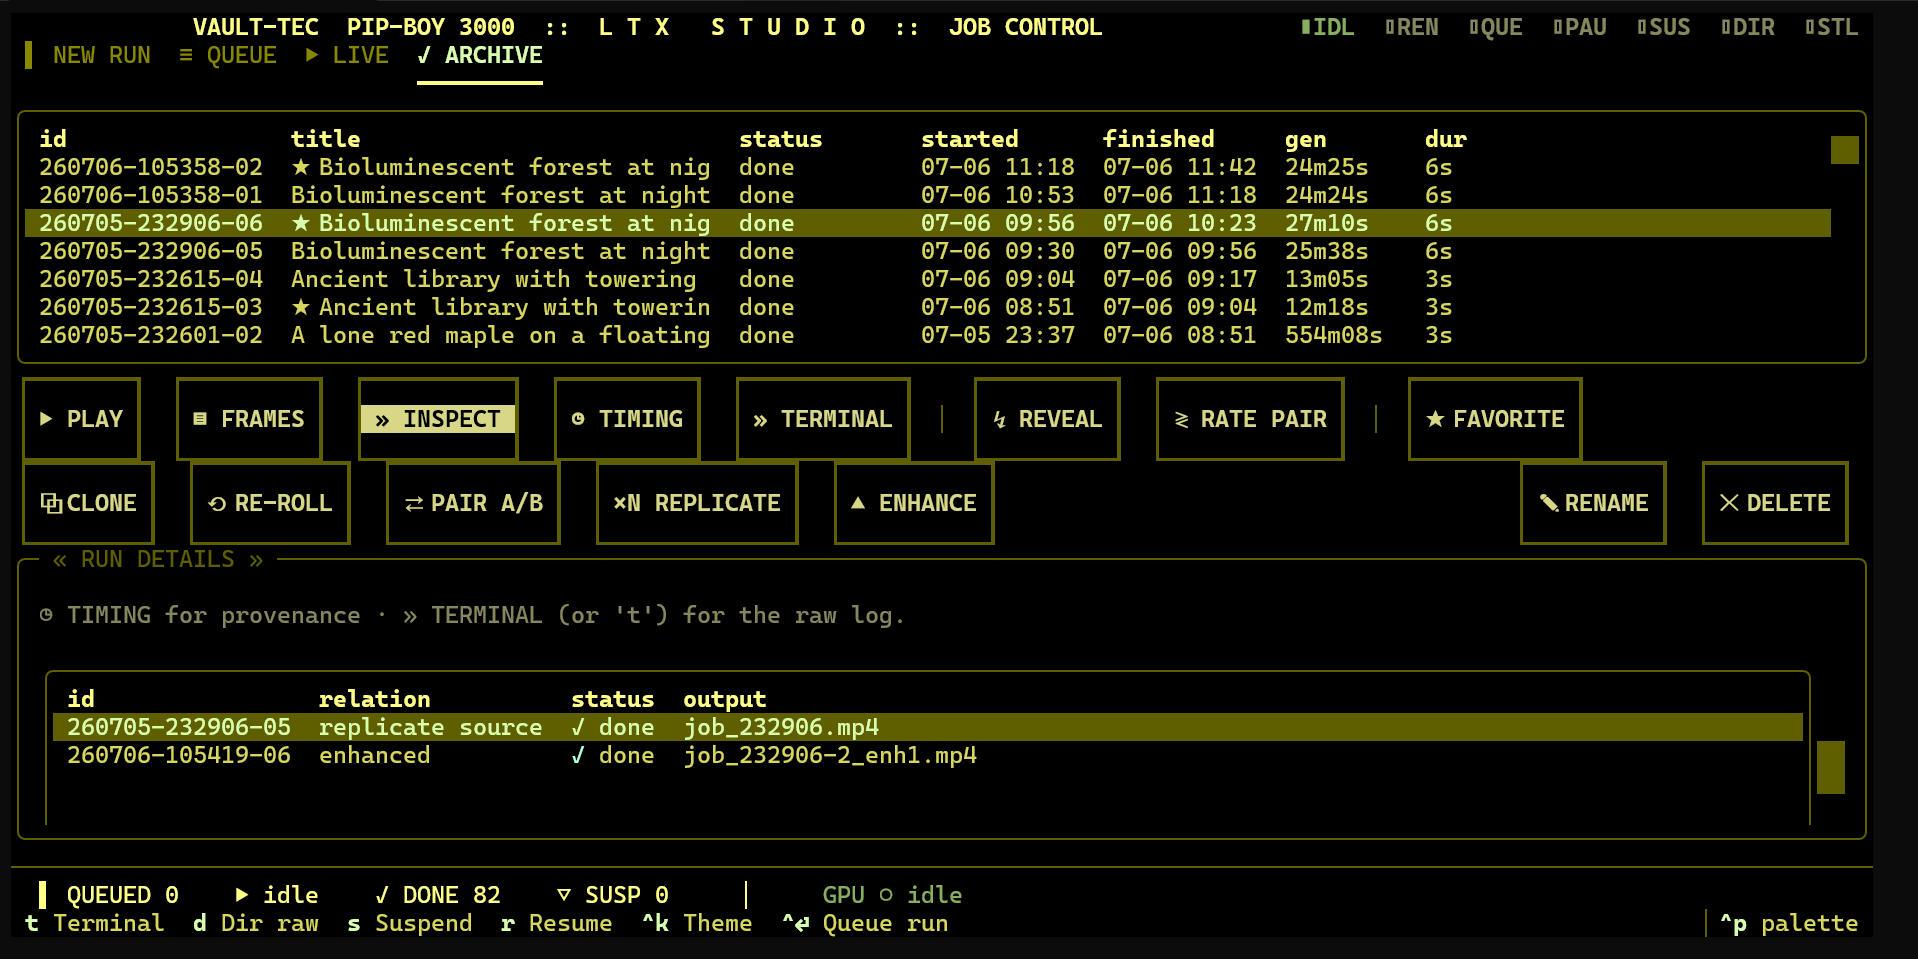
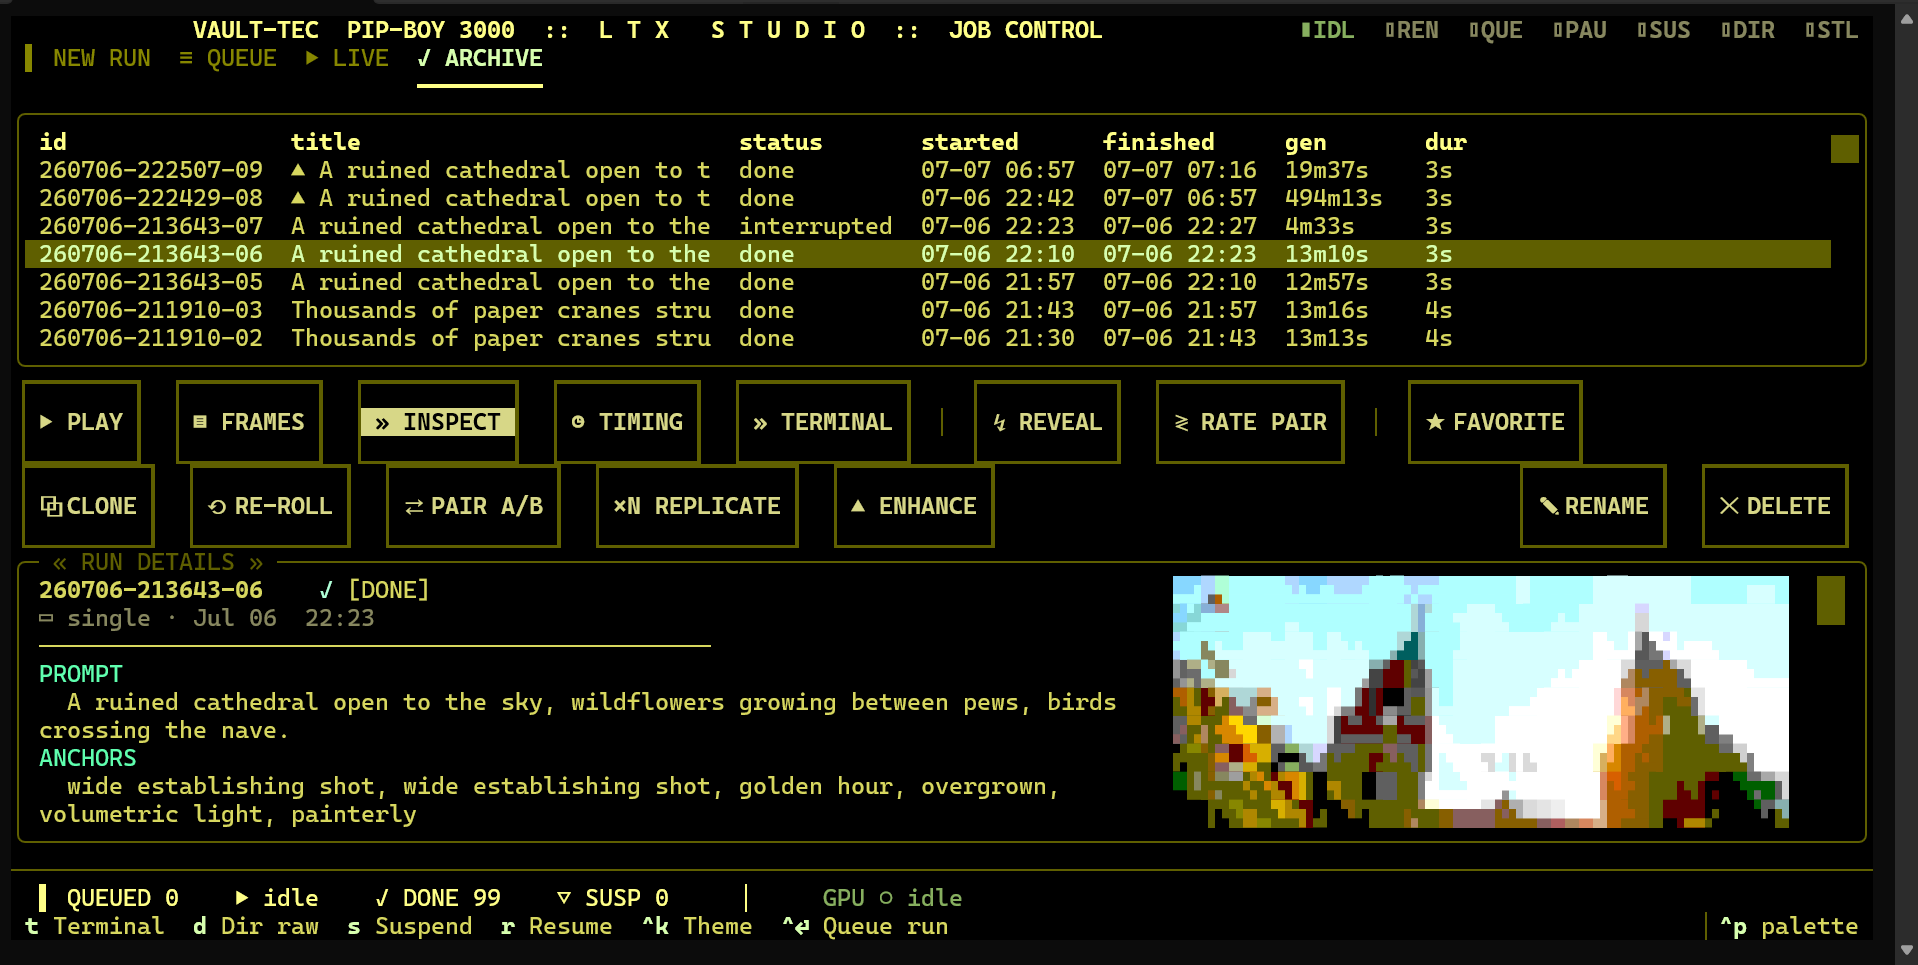
Archive inspect: opening-frame preview (T-thumb) + updated screenshots and tour

diff --git a/studio.py b/studio.py
@@ -1108,7 +1108,9 @@ class Studio(App):
     #livelog { display: none; height: 8; }
     #livebar { height: 1; background: $panel; color: $accent; content-align: left middle; padding: 0 1; }
     #inspectpanel { border: round $border; background: $surface; height: 1fr; padding: 0 1; }
-    #inspectinfo { color: $foreground; }
+    #insprow { height: auto; }
+    #inspectinfo { color: $foreground; width: 1fr; }
+    #inspthumb { width: auto; margin-left: 2; display: none; }
     #qinspectpanel { border: round $border; background: $surface; height: 1fr; padding: 0 1; }
     #qinspect { color: $foreground; }
     #inspectlog { display: none; }
@@ -1320,7 +1322,9 @@ class Studio(App):
                     yield Button("✎ RENAME", id="renamebtn")
                     yield Button("✕ DELETE", id="deletebtn")
                 with VerticalScroll(id="inspectpanel"):
-                    yield Static("[dim]Select a run above and press INSPECT.[/dim]", id="inspectinfo")
+                    with Horizontal(id="insprow"):
+                        yield Static("[dim]Select a run above and press INSPECT.[/dim]", id="inspectinfo")
+                        yield Static("", id="inspthumb")   # T-thumb: opening-frame preview
                     yield DataTable(id="reltable", cursor_type="row")
                     yield Button("▶ PLAY SELECTED CHILD RUN", id="playchildbtn")
                 yield RichLog(id="inspectlog", highlight=True, markup=False, wrap=True)
@@ -3737,14 +3741,23 @@ class Studio(App):
         read-only view (mirrors how ARCHIVE refreshes its inspect on selection). Only the qtable
         drives this; everything else is a no-op. Fully guarded — must never break the app."""
         try:
-            if getattr(event, "data_table", None) is None or event.data_table.id != "qtable":
-                return
+            tid = event.data_table.id if getattr(event, "data_table", None) is not None else None
         except Exception:
             return
-        try:
-            self._render_qinspect()
-        except Exception:
-            pass
+        if tid == "qtable":
+            try:
+                self._render_qinspect()
+            except Exception:
+                pass
+        elif tid == "reltable":
+            # T-thumb: the preview follows the highlighted related run, so replicates can be
+            # compared frame-to-frame just by moving the cursor. Falls back to the inspected run.
+            try:
+                jid = self._selected("#reltable")
+                job = self.mgr.jobs.get(jid) if jid else None
+                self._render_insp_thumb(job or self.mgr.jobs.get(self._insp_jid))
+            except Exception:
+                pass
 
     def _render_qinspect(self):
         """T24: inline read-only details for the selected QUEUE row. Reuses the EXISTING
@@ -3783,6 +3796,7 @@ class Studio(App):
         fn = self._fmt_provenance if self._insp_view == "timing" else self._fmt_inspect
         self.query_one("#inspectinfo", Static).update(fn(job))
         self._render_related_table(job)
+        self._render_insp_thumb(job)
 
     def _render_related_table(self, job):
         """Populate #reltable with runs spawned from (or that spawned) `job` -- pairs, replicates,
@@ -3794,6 +3808,49 @@ class Studio(App):
             t.add_row(k.id, label, f"{_status_glyph(k.status)} {k.status}", os.path.basename(k.out or "?"), key=k.id)
         t.display = bool(rel)
         self.query_one("#playchildbtn", Button).display = bool(rel)
+
+    def _thumb_art(self, job, cols=44):
+        """T-thumb: opening-frame art for a run's output, cached as runs/thumbs/<id>.png so
+        repeat inspects are instant. Extraction uses the bundled imageio-ffmpeg binary.
+        Returns a renderable, or None (no output yet / extraction failed) — never raises."""
+        try:
+            out = getattr(job, "out", None)
+            if not out:
+                return None
+            src = out if os.path.isabs(out) else os.path.join(REPO, out)
+            if not os.path.exists(src):
+                return None
+            tdir = os.path.join(REPO, "runs", "thumbs")
+            os.makedirs(tdir, exist_ok=True)
+            thumb = os.path.join(tdir, f"{job.id}.png")
+            if not os.path.exists(thumb) or os.path.getmtime(thumb) < os.path.getmtime(src):
+                import imageio_ffmpeg
+                ff = imageio_ffmpeg.get_ffmpeg_exe()
+                r = subprocess.run(
+                    [ff, "-y", "-i", src, "-frames:v", "1", "-vf", "scale=480:-2", thumb],
+                    stdout=subprocess.DEVNULL, stderr=subprocess.DEVNULL, timeout=20)
+                if r.returncode != 0 or not os.path.exists(thumb):
+                    return None
+            return render_preview(thumb, cols=cols)
+        except Exception:
+            return None
+
+    def _render_insp_thumb(self, job):
+        """T-thumb: show the opening frame beside RUN DETAILS so near-identical runs
+        (especially replicates) can be told apart without opening the media player.
+        Follows the highlighted #reltable row when one is selected."""
+        try:
+            pv = self.query_one("#inspthumb", Static)
+        except Exception:
+            return
+        art = self._thumb_art(job) if job is not None else None
+        if art is None:
+            pv.display = False
+            pv.update("")
+        else:
+            pv.styles.width = 46
+            pv.display = True
+            pv.update(art)
 
     def _blind_lookup(self, pair_id):
         """Look up a blind A/B pair's TRUE mapping in runs/pair_blinds.jsonl (the only in-the-clear copy).

diff --git a/README.md b/README.md
@@ -20,9 +20,13 @@ It was built under a hard constraint — an RTX 5070 Laptop (Blackwell, `sm_120`
 
 ![LIVE render view with last-frame preview](media/tui-live-render.png)
 
-**The archive** — every run is a first-class record: status, per-run timing, favorites, and a lineage panel (here: a replicate source and its enhanced output) so provenance survives re-rolls, replicates, and enhancement passes. REVEAL / RATE PAIR / PAIR A/B are the blind-comparison harness:
+**The archive** — every run is a first-class record: status, per-run timing, favorites, and the blind-comparison harness (REVEAL / RATE PAIR / PAIR A/B). INSPECT shows a run's full config beside an opening-frame preview, so near-identical runs — especially replicates — can be told apart without opening a player:
 
-![ARCHIVE view with run lineage panel and blind A/B controls](media/tui-archive.png)
+![ARCHIVE inspect view: run config and prompt beside an opening-frame preview](media/tui-archive.png)
+
+Scrolling the same panel reaches the lineage table — here a replicate source, a replicate sibling, and an enhanced child — so provenance survives re-rolls, replicates, and enhancement passes:
+
+![Run lineage table: replicate source, replicate sibling, enhanced child](media/tui-lineage.png)
 
 **Sample output** — all generated with the Wan backend, locally on the 8 GB laptop GPU:
 
@@ -111,7 +115,7 @@ Because phase boundaries are explicit, the studio accumulates real per-phase tim
 - **Style presets** — named bundles of anchor words (`Cinematic`, `Golden Hour`, `Noir`, …) that append into the prompt, stackable and user-extensible via JSON.
 - **Multi-shot director** — chains shots into longer clips with latent anchoring (AdaIN + palette lock) to fight drift, plus context windows so long clips don't OOM.
 - **Three backends** — LTX-2B (pinned 0.9.5, optional 0.9.8-distilled transformer) for fast drafts, Wan-VACE-1.3B for fidelity, and a 4-step Wan-turbo DMD path — with each path's step/CFG clamps surfaced rather than hidden.
-- **Archive with lineage** — every run is a first-class record: favorite, re-roll, clone, replicate, enhance, blind-pair verdicts, and a lineage panel tracing each run's replicate source and enhanced children.
+- **Archive with lineage** — every run is a first-class record: favorite, re-roll, clone, replicate, enhance, blind-pair verdicts, a lineage panel tracing each run's replicate source and enhanced children, and an opening-frame preview on inspect so near-identical runs are distinguishable at a glance.
 - **Inspect & clone from the queue** — read-only provenance and one-click re-queue of any run's exact config.
 
 ---